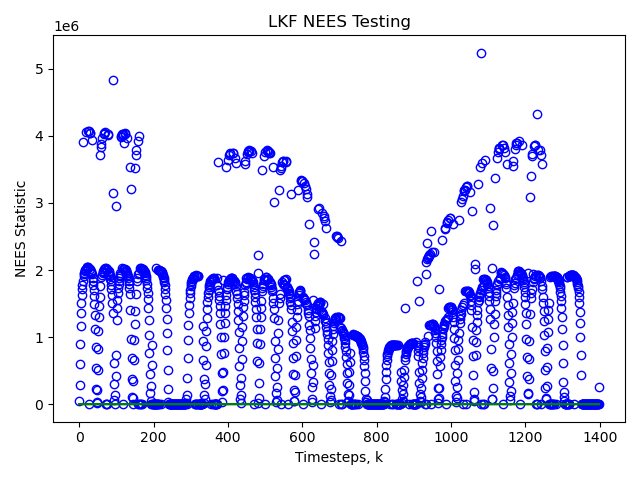
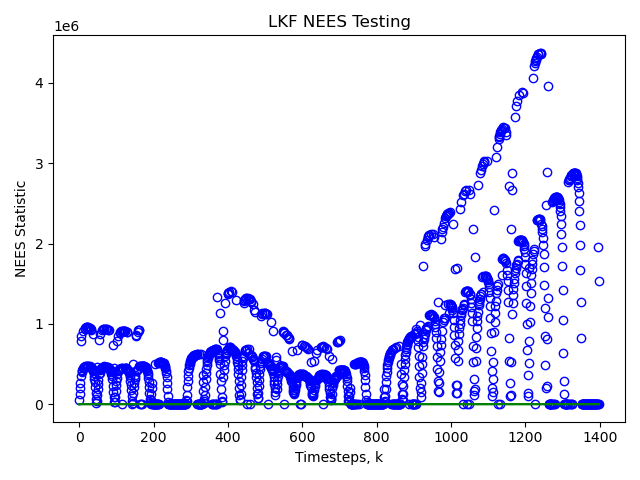
wip

diff --git a/ASEN_5044_final_aj_fatah.py b/ASEN_5044_final_aj_fatah.py
@@ -629,9 +629,11 @@ def LKF(x0, P0, dT, T, Qtrue, Rtrue, ydata, Q_LKF = np.eye(2)*1e-10, plot=False)
 
     # initialize at t=0
     x_hat_plus = np.array(x0)
-    dx_hat_plus = np.array([[0],[0.075],[0],[-0.021]])
-    du = np.zeros((2,1))
     P_plus = P0
+    dx0 = [0,0.075,0,-0.021]
+    dx_hat_vals = np.random.multivariate_normal(dx0, P_plus)
+    dx_hat_plus = np.array([[dx_hat_vals[0]],[dx_hat_vals[1]],[dx_hat_vals[2]],[dx_hat_vals[3]]])
+    du = np.zeros((2,1))
 
     F_tilde, G_tilde, Omega_tilde, H_tilde_all = eulerized_dt_jacobians(x0, dT, 0)
     
@@ -745,7 +747,7 @@ def LKF(x0, P0, dT, T, Qtrue, Rtrue, ydata, Q_LKF = np.eye(2)*1e-10, plot=False)
         F_tilde, G_tilde, Omega_tilde, H_tilde_all = eulerized_dt_jacobians(x_nom, dT, t)
         
         # NEES Calculation
-        NEES_list.append(NEES(xstar.y[:,t_idx-1], x_hat_plus, P_plus))
+        NEES_list.append(NEES(xstar.y[:,t_idx], x_hat_plus, P_plus))
         
         # NEES/NIS Debug
         # print("NEES: ", NEES_list[t_idx-1])
@@ -899,14 +901,13 @@ def EKF(x0, P0, dT, T, Qtrue, Rtrue, ydata, Q_EKF = np.eye(2)*1e-10, plot=False)
         return F_tilde, G_tilde, Omega_tilde, H_tilde
 
     # initialize at t=0
-    x_hat_plus = np.array(x0)
-    dx_hat_plus = np.array([[0],[0.075],[0],[-0.021]])
-    du = np.zeros((2,1))
     P_plus = P0
+    x_hat_plus = np.random.multivariate_normal(x0, P_plus)
+    du = np.zeros((2,1))
 
     F_tilde, G_tilde, Omega_tilde, H_tilde_all = eulerized_dt_jacobians(x0, x0, dT, 0)
     
-    x_hat_plus_tot   = x_hat_plus + dx_hat_plus       # ie nominal + perturb
+    x_hat_plus_tot   = x_hat_plus       # ie nominal + perturb
     vis_station_list = []
     P_list           = [P_plus]
     t_list           = [0]
@@ -915,7 +916,6 @@ def EKF(x0, P0, dT, T, Qtrue, Rtrue, ydata, Q_EKF = np.eye(2)*1e-10, plot=False)
 
     # ground truth values
     xstar = monte_carlo_states_tmt(x0,Qtrue,T,False)
-    x_hat_plus = x_hat_plus + dx_hat_plus
     
     t_eval = np.linspace(0, T, int(T/10))
 
@@ -1015,7 +1015,7 @@ def EKF(x0, P0, dT, T, Qtrue, Rtrue, ydata, Q_EKF = np.eye(2)*1e-10, plot=False)
         F_tilde, G_tilde, Omega_tilde, H_tilde_all = eulerized_dt_jacobians(x_hat_minus, x_hat_plus, dT, t)
         
         # NEES Calculation
-        NEES_list.append(NEES(xstar.y[:,t_idx-1], x_hat_plus, P_plus))
+        NEES_list.append(NEES(xstar.y[:,t_idx], x_hat_plus, P_plus))
         
         # NEES/NIS Debug
         # print("NEES: ", NEES_list[t_idx-1])
@@ -1127,7 +1127,7 @@ if __name__ == "__main__":
     T = 14000   # HARD-CODED
     
     # Monte-Carlo parameters
-    np.random.seed(100)  # Random Set Seed
+    # np.random.seed(100)  # Random Set Seed
     num_mc_runs = 30     # Number of Monte-Carlo Runs
     alpha = 0.05         # Confidence
     
@@ -1165,8 +1165,8 @@ if __name__ == "__main__":
     ydata_sim = monte_carlo_measurements_tmt(x0,Qtrue,Rtrue,T,plot=False)
     
     # KF Tunings
-    Q_LKF = np.diag([1e+4,1e+1])
-    P0_LKF = np.diag([100,1,100,1])
+    Q_LKF = np.diag([1e+2,1e+2])
+    P0_LKF = np.diag([1e+3,1e+3,1e+3,1e+3])
     Q_EKF = np.eye(2) * 1e-8
     P0_EKF = np.diag([10,0.1,10,0.1])
     
@@ -1175,15 +1175,15 @@ if __name__ == "__main__":
     NIS_array = []
     
     for i in range(num_mc_runs):
-        res_lkf = LKF(x0, P0_LKF, dT, T, Qtrue, Rtrue, ydata_sim, Q_LKF = Q_LKF)
+        res_lkf = LKF(x0, P0_LKF, dT, T, Qtrue, Rtrue, ydata_sim, Q_LKF = Q_LKF)#, plot=True)
         NEES_array.append(res_lkf[3])
         NIS_array.append(res_lkf[4])
     print("LKF elapsed:", time() - start)
         
-    nis_lkf, stat_lkf = NIS_Chi2_Test(np.asarray(NIS_array).T, num_meas, num_mc_runs, alpha, title="LKF NIS Testing")    
+    nis_lkf, stat_nis_lkf = NIS_Chi2_Test(np.asarray(NIS_array).T, num_meas, num_mc_runs, alpha, title="LKF NIS Testing")    
     NEES_Chi2_Test(np.asarray(NEES_array).T, num_states, num_mc_runs, alpha, title="LKF NEES Testing")
     
-    print(stat_lkf)
+    print(stat_nis_lkf)
     
     # NEES_array = []
     # NIS_array = []

diff --git a/nees_nis.py b/nees_nis.py
@@ -116,10 +116,10 @@ def NIS_Chi2_Test(NIS_array, num_meas, num_runs, alpha, title="NIS Testing"):
     k = np.shape(NIS_array)[0]
     
     NIS_avg = np.nanmean(NIS_array, axis=1)
-    #import pdb; pdb.set_trace()
     NIS_exp = num_meas * np.ones(np.shape(NIS_avg[np.isfinite(NIS_avg)]))
     r1 = chi2.ppf(alpha/2, df=num_runs*num_meas)/num_runs
     r2 = chi2.ppf(1 - (alpha/2), df=num_runs*num_meas)/num_runs
+    #import pdb; pdb.set_trace()
     try:
         res = stats.chisquare(NIS_avg[np.isfinite(NIS_avg)], NIS_exp)
     except:
